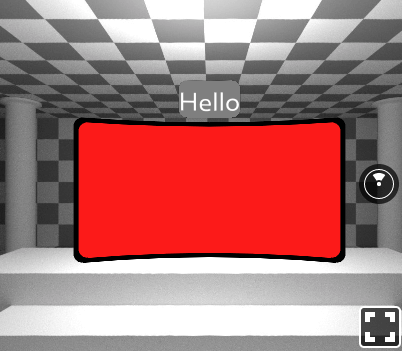
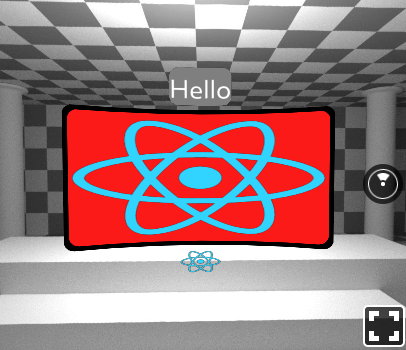
Fix missing asset in sample

diff --git a/src/CylindricalPanel/index.vr.js b/src/CylindricalPanel/index.vr.js
@@ -24,9 +24,7 @@ class Button extends React.Component {
             height: this.state.open ? 120 : 60,
             margin: 10,
             width: this.state.open ? 200 : 100}}
-          source={{
-            uri: 'https://facebook.github.io/react/img/logo_og.png',
-          }}
+          source={asset('react-logo.png')}
         />
       </VrButton>
     );
@@ -68,9 +66,7 @@ class CylindricalPanelDemo extends React.Component {
                 width: 600,
                 height: 315,
               }}
-              source={{
-                uri: 'https://facebook.github.io/react/img/logo_og.png',
-              }}
+              source={asset('react-logo.png')}
             />
             <Button />
           </View>
